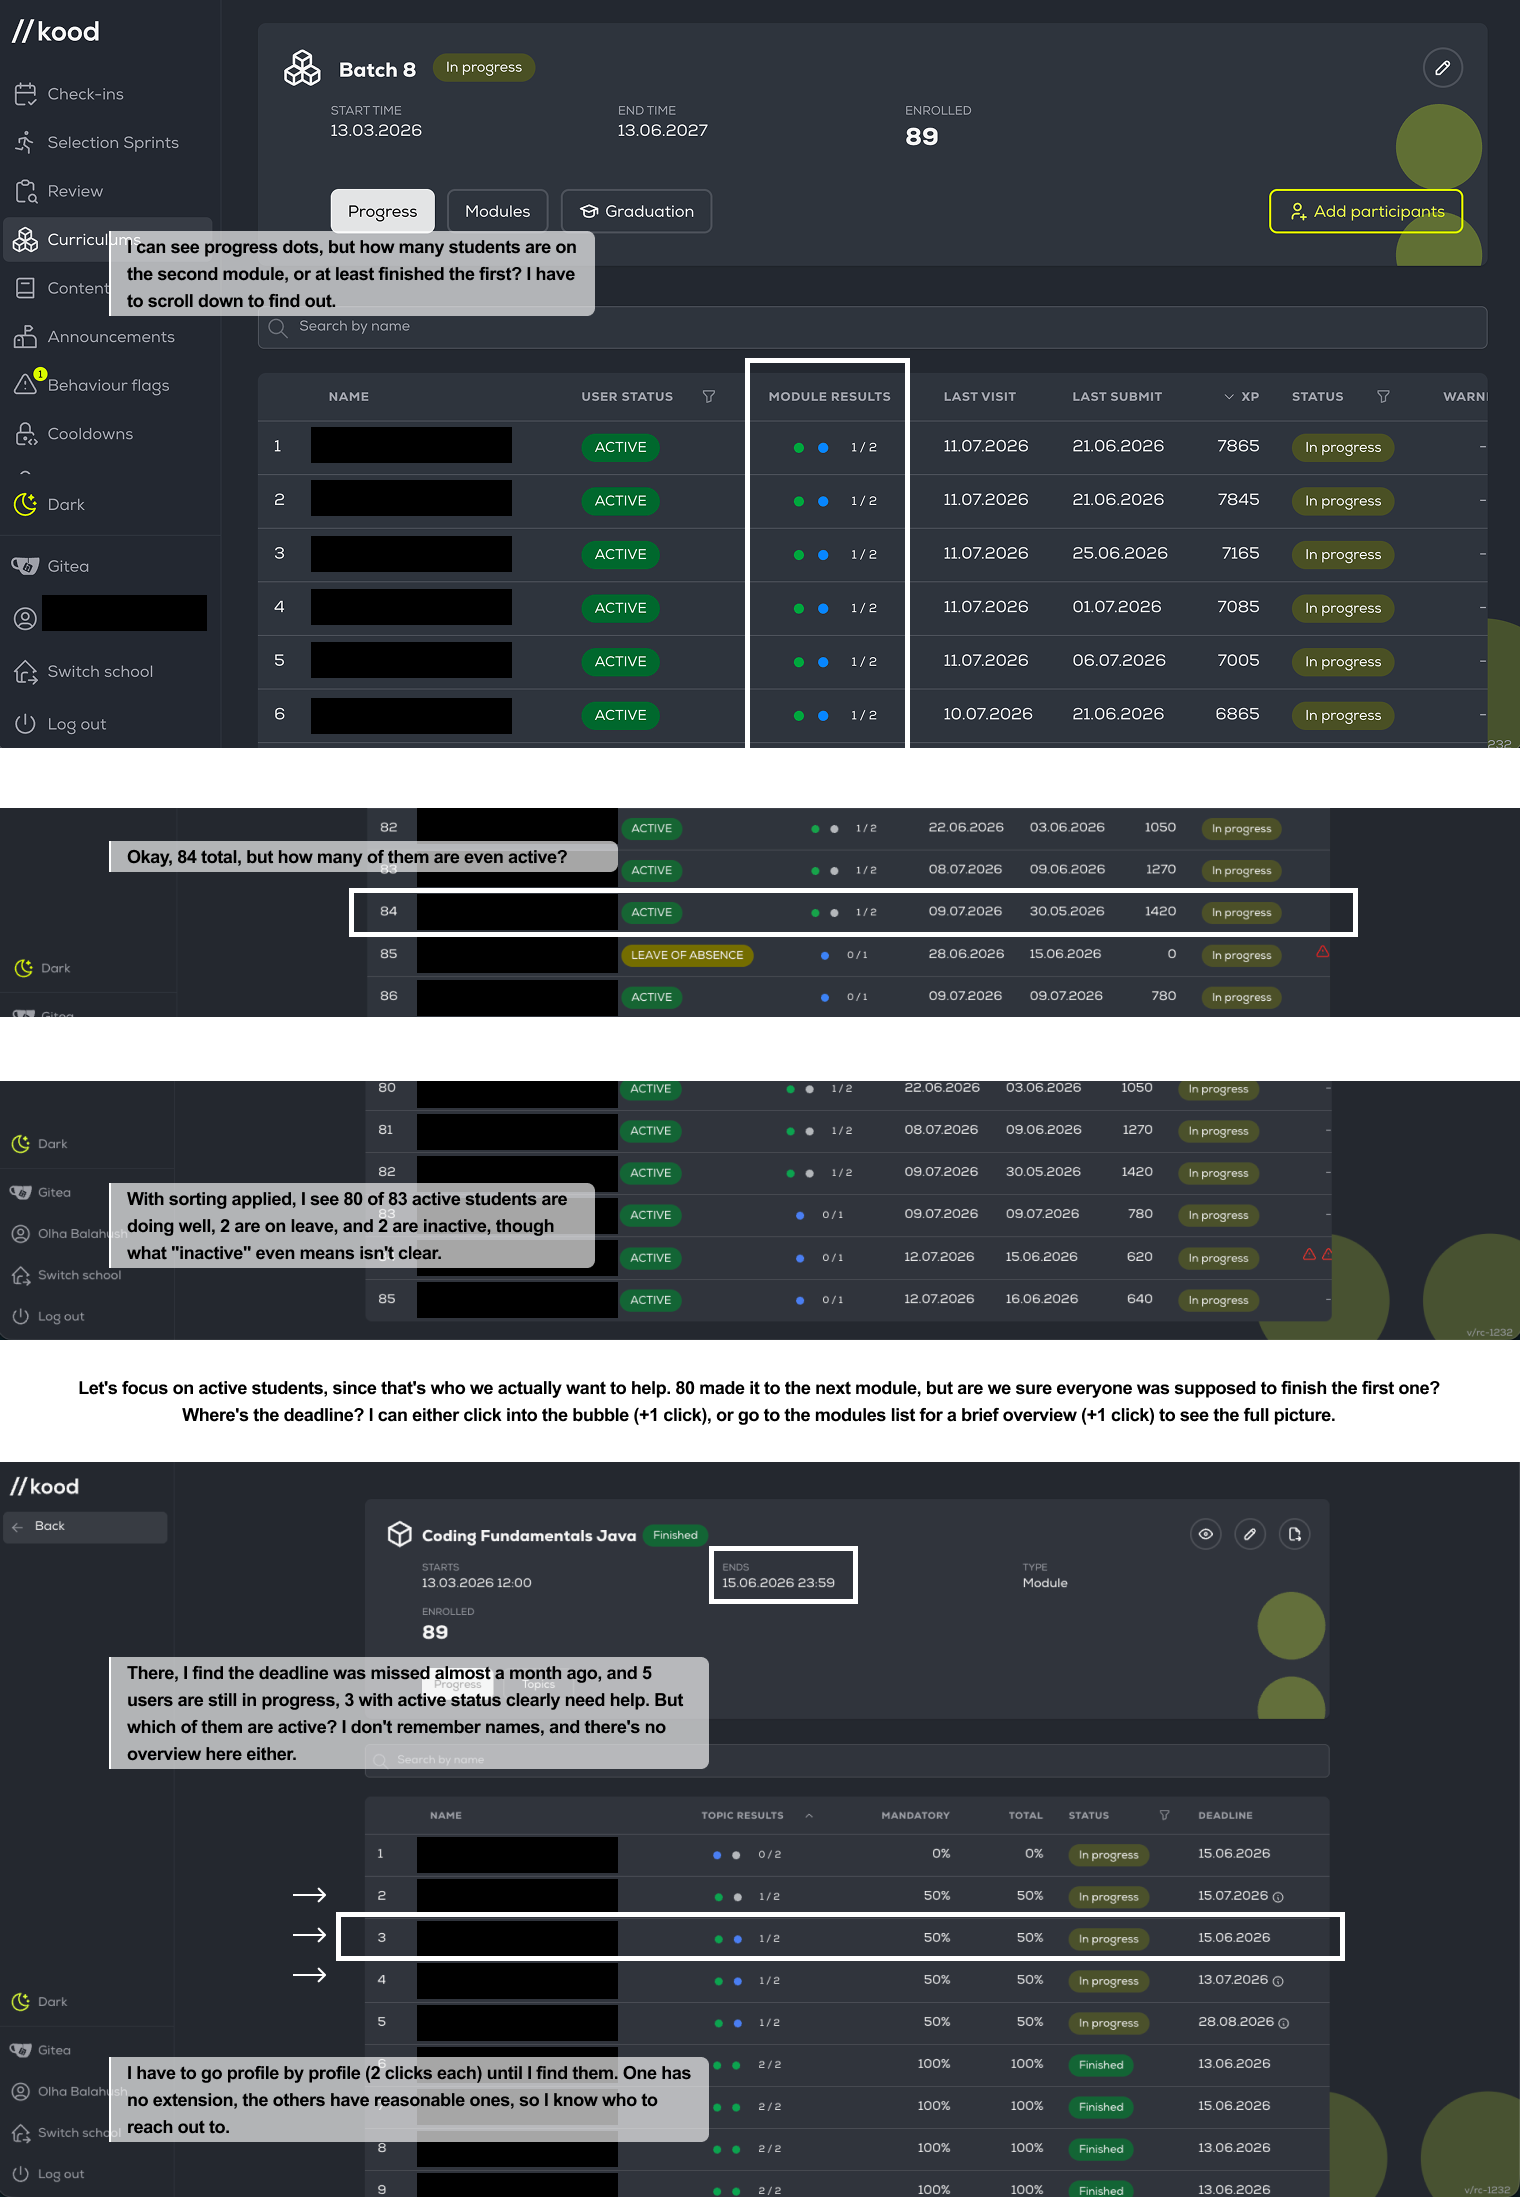
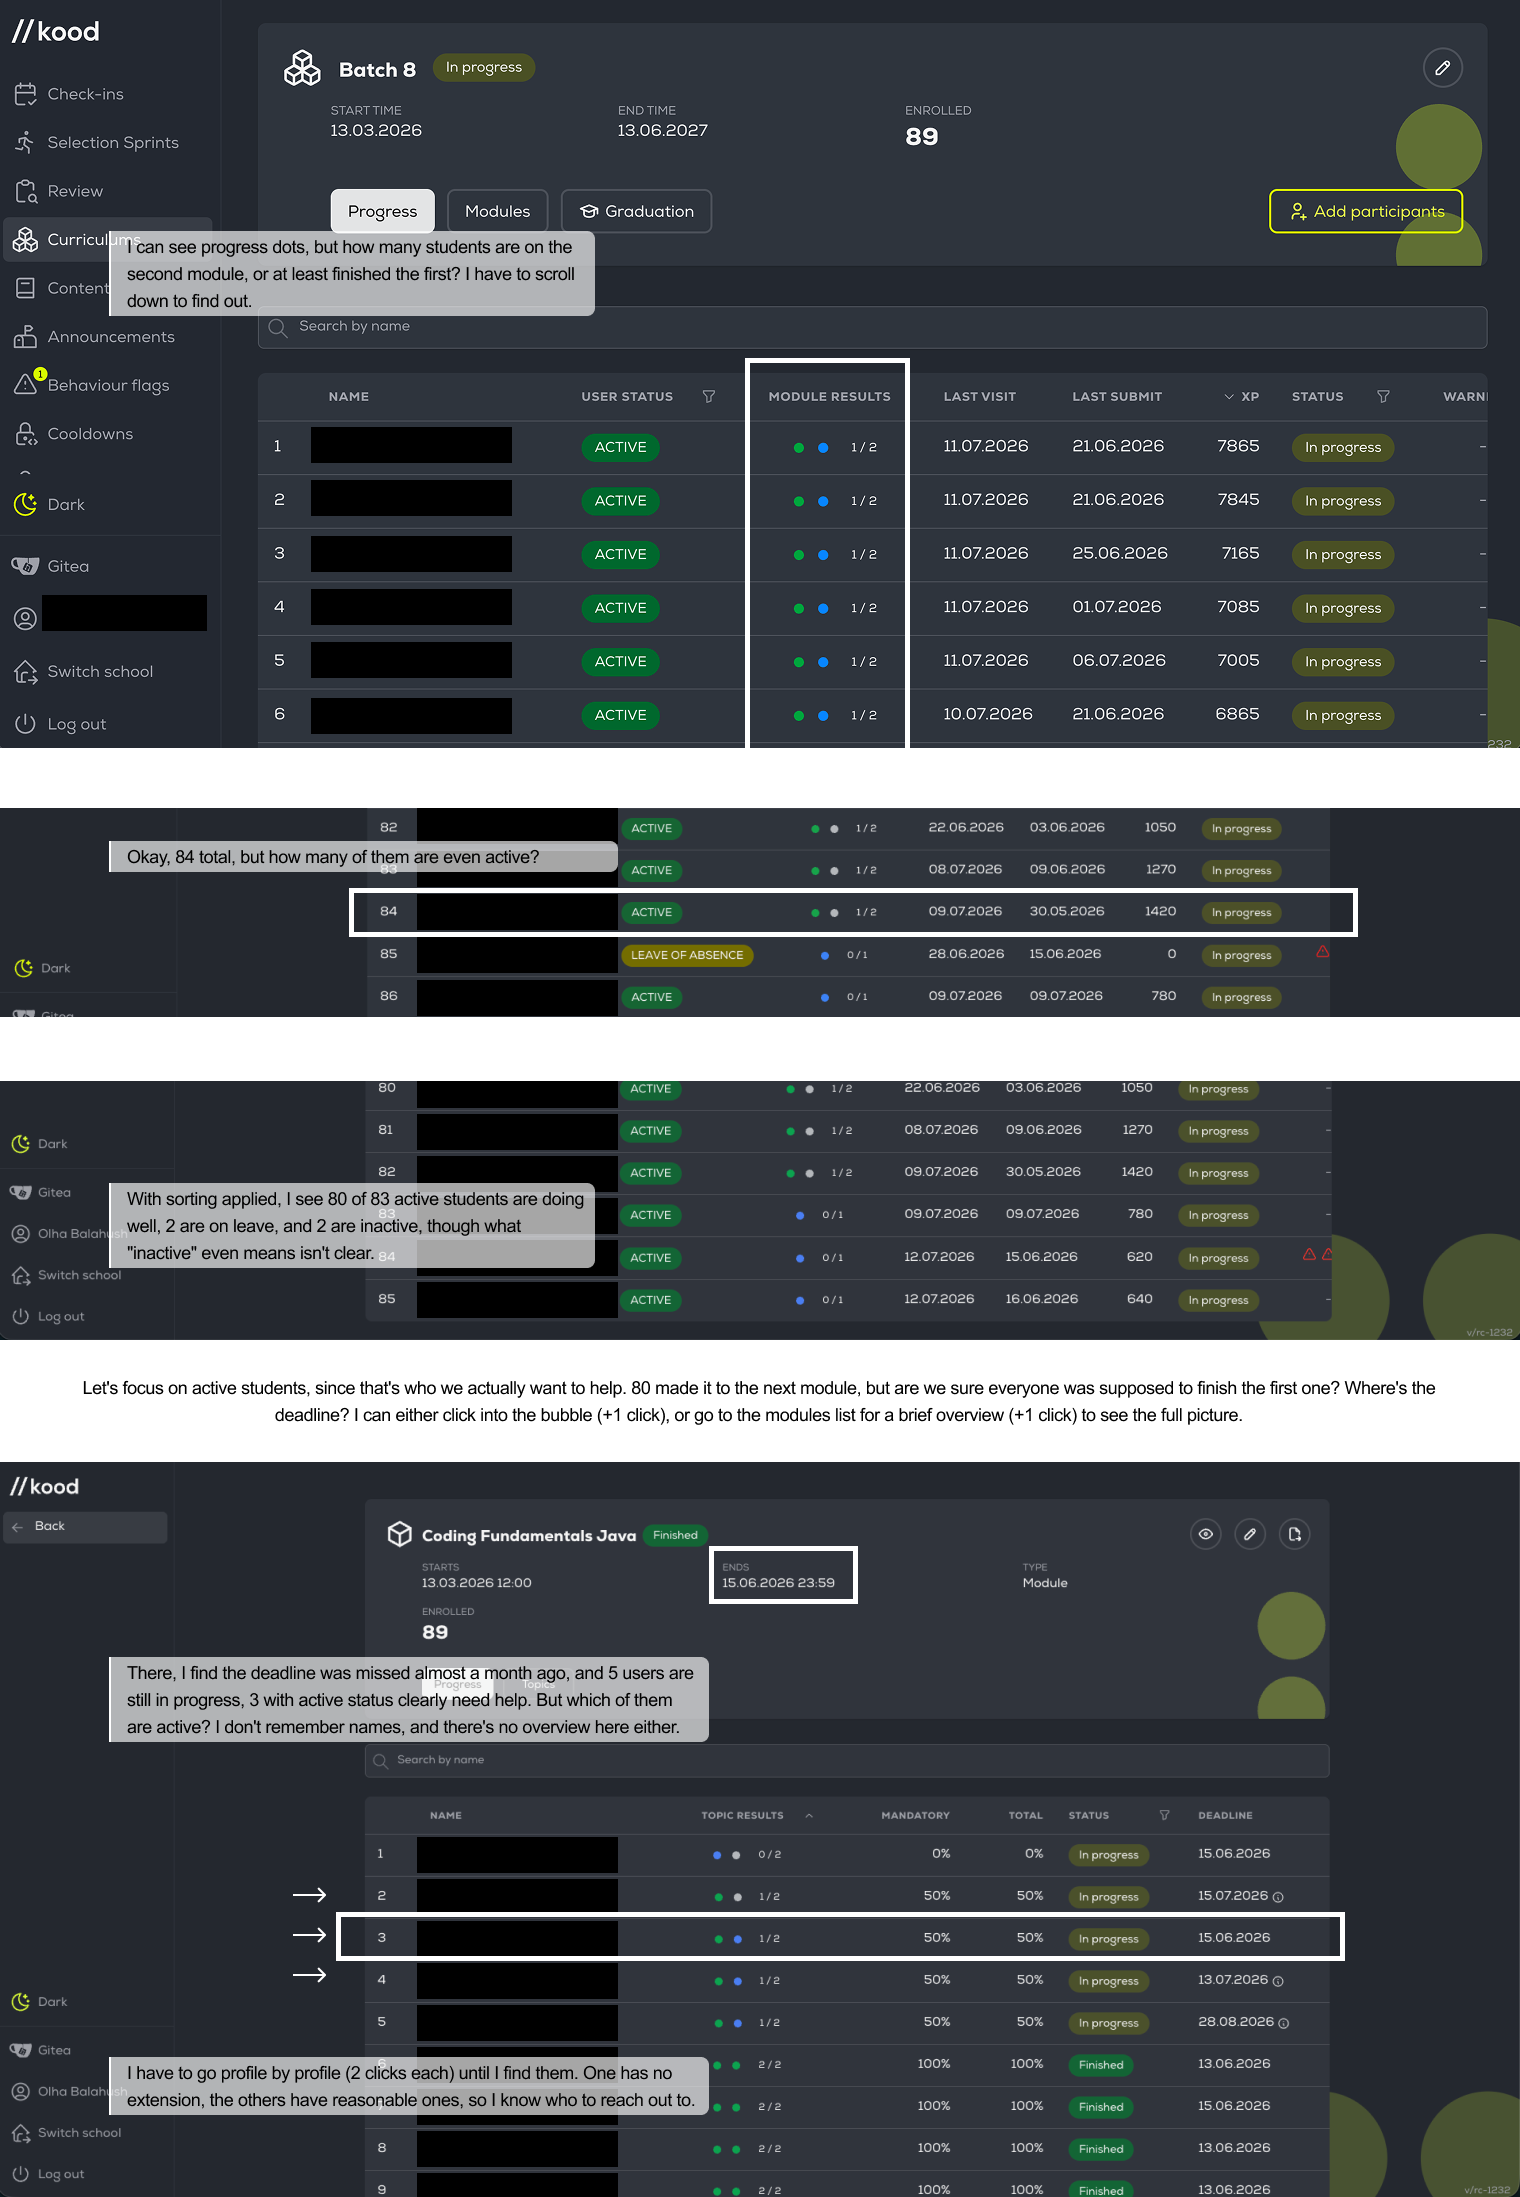
Updates

diff --git a/index.html b/index.html
@@ -1,1 +1,1 @@
-<!doctype html><html lang="en"><head><meta charset="utf-8"/><link rel="icon" href="/portfolio/favicon.ico"/><meta name="viewport" content="width=device-width,initial-scale=1"/><meta name="theme-color" content="#000000"/><meta name="description" content="Welcome to my portfolio showcasing expertise in software engineering, frontend development, and UI/UX design."/><link rel="manifest" href="/portfolio/manifest.json"/><title>porfolio</title><script>!function(t,h,e,j,s,n){t.hj=t.hj||function(){(t.hj.q=t.hj.q||[]).push(arguments)},t._hjSettings={hjid:5102389,hjsv:6},s=h.getElementsByTagName("head")[0],(n=h.createElement("script")).async=1,n.src="https://static.hotjar.com/c/hotjar-"+t._hjSettings.hjid+".js?sv="+t._hjSettings.hjsv,s.appendChild(n)}(window,document)</script><script defer="defer" src="/portfolio/static/js/main.45e78406.js"></script><link href="/portfolio/static/css/main.2a228966.css" rel="stylesheet"></head><body><noscript>You need to enable JavaScript to run this app.</noscript><div id="root"></div></body></html>
+<!doctype html><html lang="en"><head><meta charset="utf-8"/><link rel="icon" href="/portfolio/favicon.ico"/><meta name="viewport" content="width=device-width,initial-scale=1"/><meta name="theme-color" content="#000000"/><meta name="description" content="Welcome to my portfolio showcasing expertise in software engineering, frontend development, and UI/UX design."/><link rel="manifest" href="/portfolio/manifest.json"/><title>porfolio</title><script>!function(t,h,e,j,s,n){t.hj=t.hj||function(){(t.hj.q=t.hj.q||[]).push(arguments)},t._hjSettings={hjid:5102389,hjsv:6},s=h.getElementsByTagName("head")[0],(n=h.createElement("script")).async=1,n.src="https://static.hotjar.com/c/hotjar-"+t._hjSettings.hjid+".js?sv="+t._hjSettings.hjsv,s.appendChild(n)}(window,document)</script><script defer="defer" src="/portfolio/static/js/main.1a464072.js"></script><link href="/portfolio/static/css/main.a70c5b2c.css" rel="stylesheet"></head><body><noscript>You need to enable JavaScript to run this app.</noscript><div id="root"></div></body></html>

diff --git a/static/css/main.a70c5b2c.css b/static/css/main.a70c5b2c.css
@@ -1,0 +1,2 @@
+:root{--back-color:#fff;--color-1:#c5c5c5;--color-2:#838383;--color-3:#3b3b3b;--text-color:#000;--text-font:"Roboto",sans-serif;--big-title-font-size:5rem;--big-title-font-size-resp-m:3rem;--big-title-font-size-resp:1.5rem;--title-text-size:2rem;--title-text-size-resp:1.25rem;--main-text-size:1rem;--main-text-size-resp:0.75rem;--additional-text-size:0.75rem;--additional-text-size-resp:0.5rem}html{overflow-x:hidden}body{-webkit-font-smoothing:antialiased;-moz-osx-font-smoothing:grayscale;font-family:Roboto,-apple-system,BlinkMacSystemFont,Segoe UI,Oxygen,Ubuntu,Cantarell,Fira Sans,Droid Sans,Helvetica Neue,sans-serif;margin:0}code{font-family:source-code-pro,Menlo,Monaco,Consolas,Courier New,monospace}::-webkit-scrollbar-thumb{background-color:#3b3b3b;background-color:var(--color-3);border-radius:6px;-webkit-transition:opacity 1s ease-out;transition:opacity 1s ease-out;visibility:hidden}.show-scrollbar ::-webkit-scrollbar-thumb{visibility:visible}::-webkit-scrollbar-track{background-color:#0000;border-radius:6px}.App{background-color:#fff;padding-top:50px}.scroll-page{display:flex;flex-direction:column}.hamburger-menu{background:none;border:none;cursor:pointer;display:none;flex-direction:column;height:32px;justify-content:space-between;outline:none;width:40px}.container,.sun-container{align-items:center;display:flex;justify-content:center}.sun-container{flex-direction:column;height:30%;margin:0 45%;z-index:1}.about-character{margin:0 45%;width:0;z-index:1}.sun-container img{max-height:100%;min-width:100px}.title{font-size:var(--big-title-font-size);margin:0}.cursor{background-color:#000;border-radius:50%;height:32px;left:0;position:fixed;top:0;width:32px}.parallax-page{align-items:center;display:flex;flex-grow:1;justify-content:center}.to-page-center{margin:0}.pic-container,.to-page-center{align-items:center;display:flex;justify-content:center;width:100%}.pic-container{height:auto;margin:1rem 0;min-width:0;overflow:hidden}.prev{max-height:30rem}.full{margin-left:-20rem;width:100vw!important}.title-container{display:flex;flex-direction:column;height:100%;justify-content:center;width:100%}.title-container h2,.title-container h3{margin:0}.title-container .btns-container{display:none}.btns-container{display:flex;flex-direction:row;flex-wrap:wrap;gap:.5rem}.btns-container .span-btn,.btns-container .span-tag{align-items:center;background-color:var(--color-2);border-radius:100px;color:#fff;display:flex;font-size:.85rem;gap:.5rem;padding:.25rem .5rem}.case-toggle-btn{align-items:center;background-color:var(--color-3);color:#fff;display:flex;gap:.5rem;margin:.75rem 0 1.5rem}.case-details{display:grid;grid-template-rows:10rem;position:relative;transition:grid-template-rows .5s ease-in-out}.case-details.is-open{grid-template-rows:1fr}.case-details-inner{min-height:0;overflow:hidden}.case-fade{background:linear-gradient(to bottom,#0000,var(--back-color));bottom:0;height:6rem;left:0;opacity:1;pointer-events:none;position:absolute;right:0;transition:opacity .3s ease-in-out}.case-details.is-open .case-fade{opacity:0}button{background-color:gray;border-radius:.5rem;border-style:none;color:#fff;padding:.5rem}button:first-child{margin:0}.pic-container img{display:flex;height:100%;object-fit:fill;transition:transform .3s ease-in-out;width:100%}.pic-container.placeholder-image{background:repeating-linear-gradient(45deg,#f4f4f4,#f4f4f4 10px,#ececec 0,#ececec 20px);border:1px dashed #b3b3b3;color:#8a8a8a;font-style:italic;min-height:20rem;padding:1rem;text-align:center}blockquote{border-left:2px solid var(--color-1);color:#555;font-style:italic;margin:1rem 0;padding-left:1rem}.horizontal-line{background:gray;height:1px;width:100%}.navs-container{gap:1rem}.navs-container,header{display:flex;flex-direction:row}header{align-items:center;animation:showHeader 1s ease-out forwards;animation-delay:3.5s;gap:5rem;height:50px;justify-content:space-between;left:0;padding:0 2.5rem;position:fixed;right:0;top:0;visibility:hidden;z-index:100}.adopted-nav-container{background:#ffffff80;border:1px solid #fff3;border-radius:.25rem;display:flex;flex-direction:column;padding:1rem;position:fixed;right:5%;top:60px;width:160px;z-index:200}.adopted-nav-container,.glassmorphism{backdrop-filter:blur(10px);-webkit-backdrop-filter:blur(10px);box-shadow:0 2px 30px #0000000d}.glassmorphism{background:#ffffff26;border-bottom:1px solid #fff3}h1{font-size:var(--big-title-font-size);margin-bottom:.5rem;margin-top:1rem}h2{font-size:3rem;margin-bottom:1rem;margin-top:2rem}h3{font-size:2rem;margin:1.25rem 0}h4,h5{font-size:1.75rem}h5{color:gray;margin:1.5rem 0}h6{font-size:1.25rem;margin:1rem 0}button,p,span,ul{font-size:1rem}.row{grid-gap:1rem;align-items:start;display:grid;gap:1rem;grid-template-columns:10% 1% 89%;margin:1rem 0;width:100%}.first-line,.second-line,.third-line{opacity:0;transition:all .6s ease-out}.first-line{animation:slideInLeft 1s ease-out forwards;animation-delay:.5s}.second-line{animation:slideInLeft 1s ease-out forwards;animation-delay:1.5s}.third-line{animation:fadeIn 1.5s ease-out forwards;animation-delay:3s;margin:1rem 0}.scroll-cue-arrow-slot{align-items:center;display:flex;justify-content:center;margin-top:80px;min-height:100px}.scroll-cue-arrow{animation:slideInDown 1s ease-out forwards;animation-delay:5s;opacity:0}.scroll-cue-arrow--on-view{opacity:0;transform:translateY(-50px)}.scroll-cue-arrow--on-view.is-visible{animation:slideInDown 1s ease-out forwards}.span-btn{color:#333;cursor:pointer;font-size:1.1rem;padding:.2rem 0;position:relative;text-decoration:none}.span-btn:after{background:#000;bottom:0;content:"";height:.75px;left:0;position:absolute;transform:scaleX(0);transform-origin:bottom right;transition:transform .3s ease-out;width:100%}.span-btn:hover:after{transform:scaleX(1);transform-origin:bottom left}@keyframes slideInDown{0%{opacity:0;transform:translateY(-50px)}to{opacity:1;transform:translateY(0)}}@keyframes slideInLeft{0%{opacity:0;transform:translateX(-50px)}to{opacity:1;transform:translateX(0)}}@keyframes fadeIn{0%{opacity:0}to{opacity:1}}@keyframes showHeader{0%{opacity:0;transform:translateY(-50px);visibility:hidden}to{opacity:1;transform:translateY(0);visibility:visible}}.first-line:hover,.second-line:hover,.third-line:hover{transform:scale(1.05)}@media(max-width:1300px){.full{margin-left:-5%;width:100vw!important}}@media(max-width:1048px){.title,h1{font-size:var(--big-title-font-size-resp-m)}h2{font-size:1.25rem;margin-bottom:.5rem;margin-top:1rem}h3,h4,h5,h6{font-size:1rem}h5{margin:.25rem 0}h6{margin:.2rem 0}.cursor{display:none}.sun-container{height:20%}}@media(max-width:900px){header{padding:0 5%}.navs-container{display:none}.hamburger-menu{display:flex}.title,h1{font-size:var(--big-title-font-size-resp)}.arrow{height:50px}.sun-container{height:10%}.row{grid-gap:.25rem;align-items:start;display:grid;gap:.25rem;grid-template-columns:100%;margin-bottom:1.5rem;width:100%}.row .line{display:none}}.page{align-items:center;box-sizing:border-box;display:flex;font-family:Arial,Helvetica,sans-serif;font-size:var(--main-text-size);margin:0 20rem;max-width:calc(100vw - 10%);width:calc(100% - 40rem)}.page-height{height:100vh}.section-min-height{box-sizing:border-box;min-height:100vh}.ux-cases-page.section-min-height{justify-content:center}.title-1{font-size:var(--title-text-size)}.main-text{font-size:var(--main-text-size)}.additional-text{font-size:var(--additional-text-size)}.right-text{justify-content:flex-end;text-align:right}.scroll-visibility{width:35%}.link{color:var(--color-3);text-decoration:underline}.ux-cases-page{align-items:self-start;flex-direction:column;margin-bottom:4rem}.ux-cases-nav{display:flex;flex-direction:column;margin:1rem 0}@media(max-width:1300px){.page{margin:0 5%;width:90%}}@media(max-width:900px){.title-1{font-size:var(--title-text-size-resp)}.main-text{font-size:var(--main-text-size-resp)}.additional-text{font-size:var(--additional-text-size-resp)}}.animated-bubble{aspect-ratio:1/1;background-color:#000;border-radius:100%;width:1rem}.contact-me-box{bottom:-171px;color:#fff;display:flex;flex-direction:column;left:0;overflow:hidden;position:fixed;transition:bottom .5s ease;width:100%;z-index:900}.contact-me-container{background-color:var(--color-2);border-bottom:1px solid #fff;display:flex;flex-direction:row;padding:5px 0;width:100%;z-index:900}.scrolling-text{animation:animate 12s linear infinite;text-transform:uppercase;white-space:nowrap}@keyframes animate{0%{transform:translateX(0)}to{transform:translateX(-100%)}}.contact-me-content{align-items:flex-start;background-color:var(--color-2);display:flex;flex-direction:column;height:150px;justify-content:flex-start;padding:10px 10%;transition:transform .5s ease-in-out}.opened{bottom:0}.contact-me-container.paused .scrolling-text{animation-play-state:paused}.contact-me-title{margin:10px 0}.contact-t{align-items:center;display:flex;flex-direction:row;justify-content:space-between;width:100%}.close-btn{background-color:#0000;border-style:none}.links-container{display:flex;flex-direction:row;font-size:var(--main-text-size);justify-content:space-between;margin-top:20px;width:100%}.rows-page{align-items:flex-start;box-sizing:border-box;display:flex;flex-direction:column;min-height:100vh}.education-page{justify-content:center}.education-box{align-items:center;border-top:1px solid gray;display:flex;flex-direction:row;height:100px;justify-content:space-between;overflow:hidden;position:relative;width:100%}.educations-container{border-style:none;display:flex;flex-direction:column;gap:0;width:100%}.education-content{align-items:center;display:flex;flex-direction:row;height:100%;justify-content:space-between;left:0;position:absolute;right:0;top:0;transition:transform .5s ease}.education-content .education-date,.education-content .education-text{align-items:flex-start}.education-content .education-date{height:100%;text-transform:uppercase}.education-box .cloned{color:var(--color-2);transform:translateY(100%)}.education-box.hovered .education-content{transform:translateY(-100%)}.education-box.hovered .cloned{transform:translateY(0)}.first{margin-top:100px}.last{border-bottom:1px solid gray}.projects-container{display:flex;flex-direction:column;width:100%}.project-container{align-items:center;display:flex;flex-direction:row;justify-content:space-between;margin-top:4rem;text-decoration:none;width:100%}.project-content{align-items:center;background-color:gray;display:flex;height:400px;justify-content:flex-start;min-width:500px;overflow:hidden;position:relative;width:40%}.project-content img{display:block;height:100%;object-fit:cover;transition:transform .3s ease-in-out;width:100%}.project-content:hover img{transform:scale(1.1)}.line{align-items:center;border:1px solid gray;display:flex;flex-direction:column;height:100%;justify-content:center;width:0}.line-circle{background:var(--back-color);border:solid;border-radius:50%;min-height:20px;min-width:20px}.project-row{align-items:center;display:flex;flex-direction:row;gap:4rem;height:100%;width:100%}.project-row .line{min-height:18rem}.project-description{width:40%}.project-description,.ux-project-description{align-items:flex-start;display:flex;flex-direction:column;font-size:var(--additional-text-size)}.ux-project-description{width:50%}.is-right{align-items:flex-end;text-align:end}.pr-name{display:flex;flex-direction:column}@media(max-width:900px){.project-container{flex-direction:column}.line{display:none}.is-right{text-align:start}.project-content,.project-description{height:auto;min-width:0;width:100%}.pr-name{align-items:center;flex-direction:row;gap:20px;margin-top:-25px;z-index:1000}.pr-num{font-size:2rem;margin:0}}.center{box-sizing:border-box;color:#000;flex-direction:column;justify-content:center;min-height:100vh}
+/*# sourceMappingURL=main.a70c5b2c.css.map*/